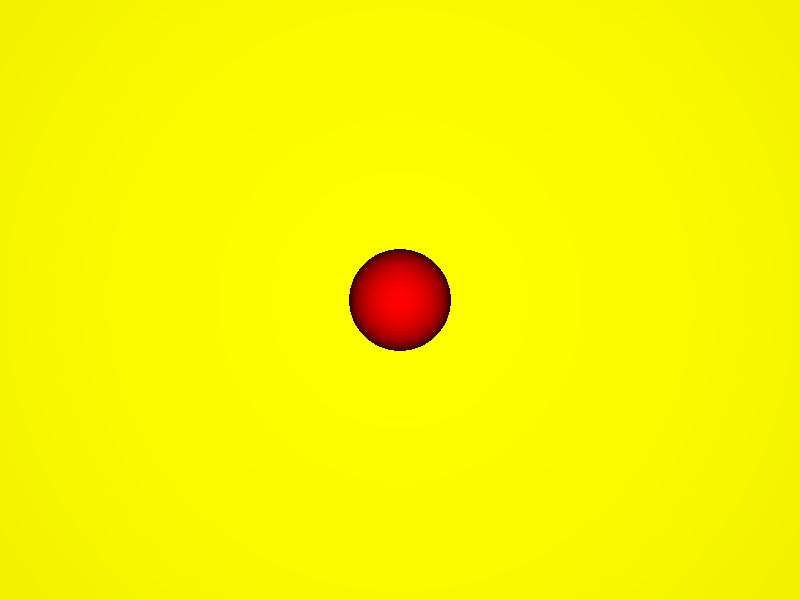
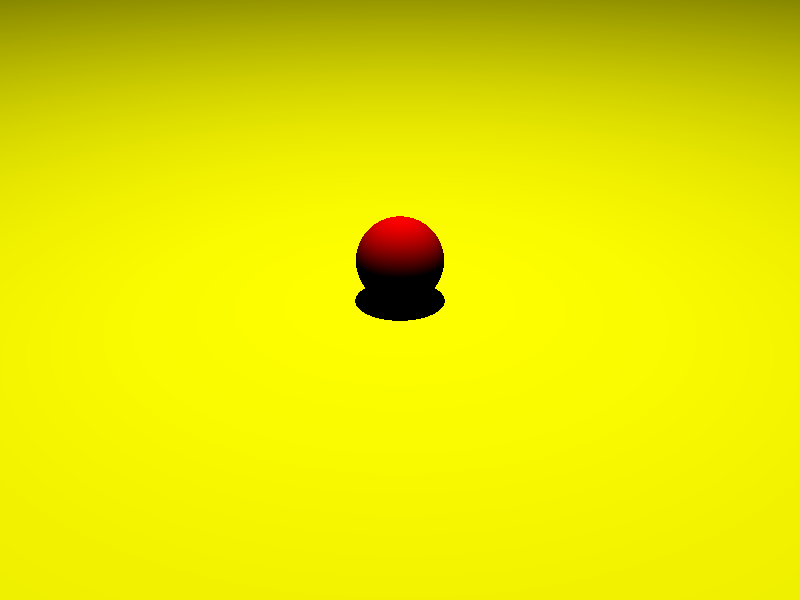
Fix ray_tracer logic

Changed region(s): [[0.0, 0.0, 1.0, 0.27], [0.4375, 0.36, 0.5625, 0.6]]

diff --git a/PovRay/app/povview_tracer.py b/PovRay/app/povview_tracer.py
@@ -15,6 +15,7 @@ from gi.repository import GooCanvas, GdkPixbuf
 MAX_BOUNCES = 2
 LIGHT_SOURCE_SIZE = 100
 RAYS_CASTS_PER_PIXEL = 1
+AMBIENT = 0.2
 
 
 class Tracer:
@@ -99,8 +100,13 @@ class Tracer:
     def calculate_light(self, ray, hit):
         incoming_light = RGB(0)
         for light in self.lights:
-            cos1 = hit.normal.dot((light.location - ray.at(hit.t)).normalized())
-            incoming_light += hit.obj.color * light.color * cos1
+            light_ray = Ray(
+                light.location, (ray.at(hit.t) - light.location).normalized()
+            )
+            light_hit = self.ray_collision(light_ray)
+            if light_ray.at(light_hit.t).round(6) == ray.at(hit.t).round(6):
+                cos1 = hit.normal.dot((light.location - ray.at(hit.t)).normalized())
+                incoming_light += hit.obj.color * light.color * cos1
         return incoming_light
 
     def trace(self, ray):
@@ -210,7 +216,7 @@ def main(args):
         parsed_file["cameras"][0],
         parsed_file["objects"],
         (800, 600),
-        model="ray_tracer" if not args[2] else "path_tracer",
+        model="ray_tracer" if not int(args[2]) else "path_tracer",
     )
     tracer.trace_scene()
     tracer.to_png(f"{tracer.model}.png")
